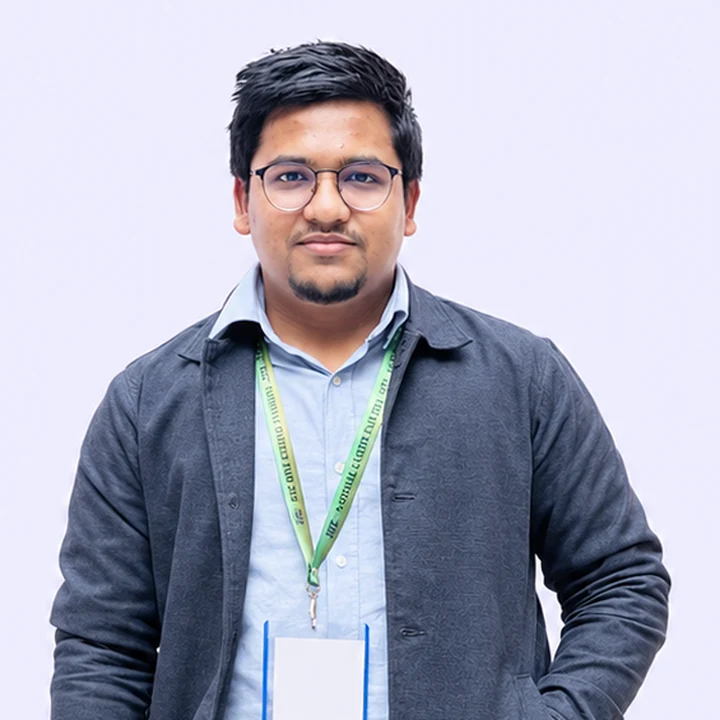
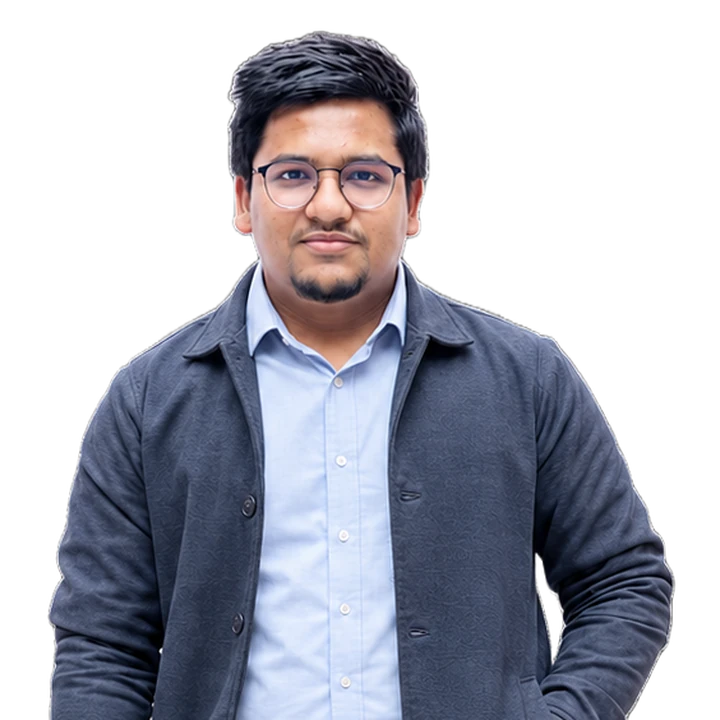
Update About photo (clean transparent cutout)

diff --git a/index.html b/index.html
@@ -590,7 +590,7 @@
   <section id="about">
     <div class="container">
       <div class="about-grid">
-        <div class="about-photo"><img class="ph-desktop" src="assets/profile.webp?v=5" alt="Sarwar Shuvo" style="position:absolute;inset:0;width:100%;height:100%;object-fit:cover;z-index:2;"><img class="ph-mobile" src="assets/profile-circle.webp?v=5" alt="Sarwar Shuvo" style="position:absolute;inset:0;width:100%;height:100%;object-fit:cover;z-index:2;"></div>
+        <div class="about-photo"><img class="ph-desktop" src="assets/profile.webp?v=6" alt="Sarwar Shuvo" style="position:absolute;inset:0;width:100%;height:100%;object-fit:cover;z-index:2;"><img class="ph-mobile" src="assets/profile-circle.webp?v=6" alt="Sarwar Shuvo" style="position:absolute;inset:0;width:100%;height:100%;object-fit:cover;z-index:2;"></div>
         <div class="about-text">
           <div class="section-head" style="margin-bottom:24px">
             <div class="eyebrow">About me</div>
